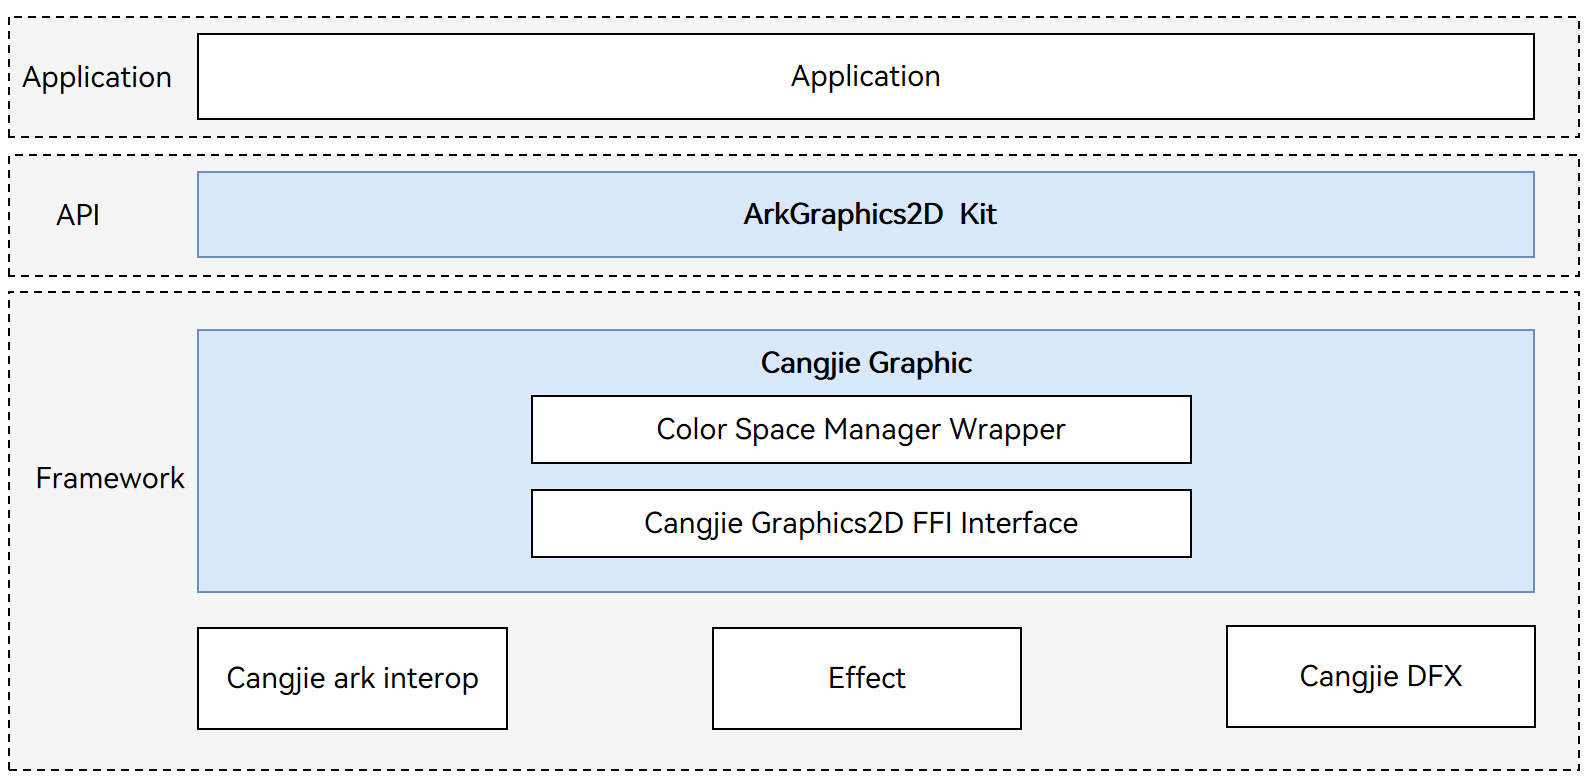
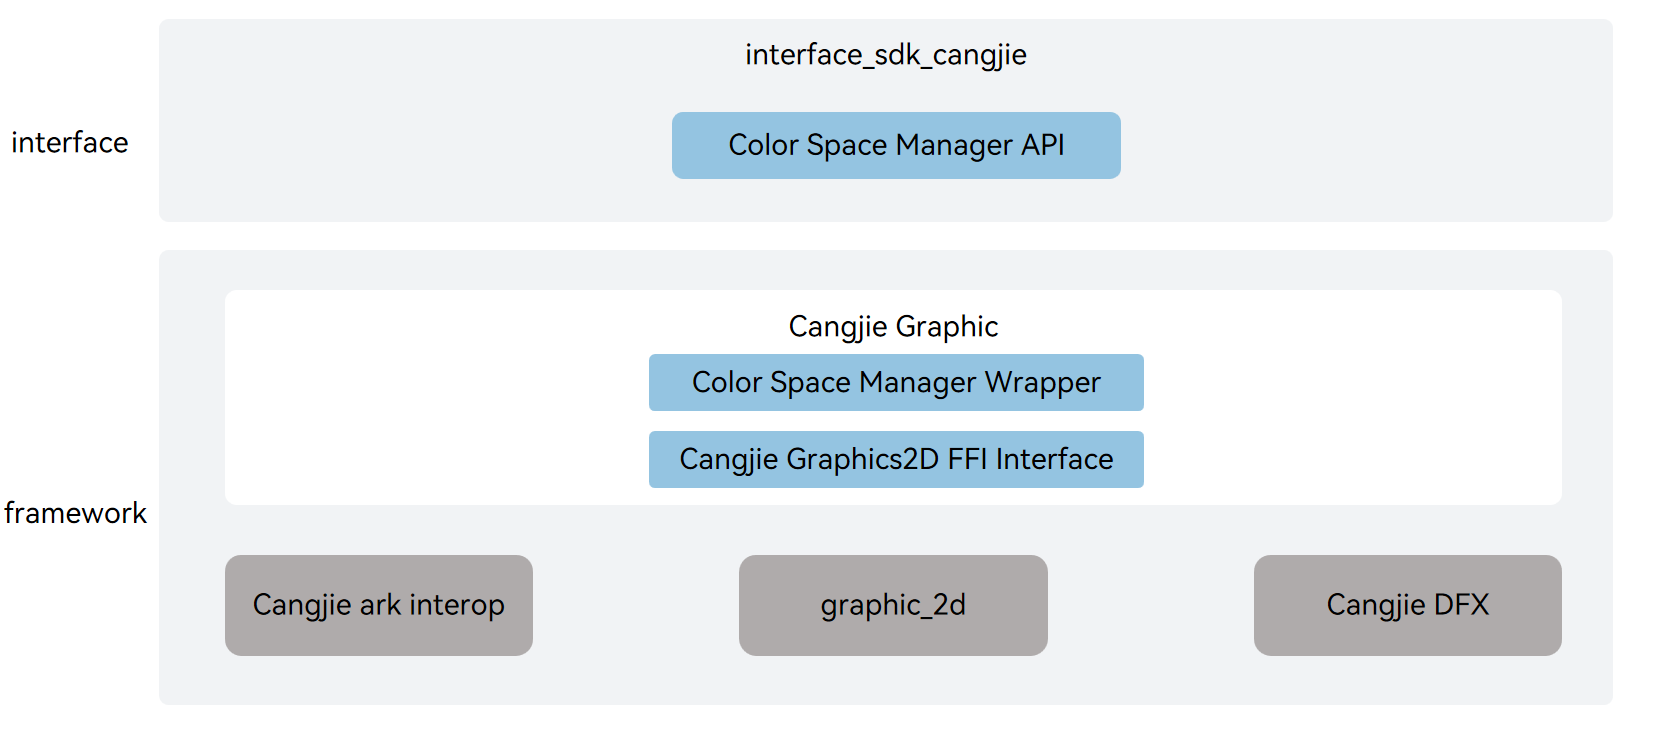
fix the internal review comments

diff --git a/README.md b/README.md
@@ -2,7 +2,7 @@
 
 ## Introduction
 
-The graphic_cangjie_wrapper is a Cangjie API encapsulated on OpenHarmony based on the capabilities of the Graphics Subsystem. The Graphics subsystem mainly consists of user interface (UI) components, layout, animator, font, input event, window management, and rendering and drawing modules. It is an application framework that can be built on the standard OS to develop OpenHarmony applications for standard and large-system devices.
+The graphic_cangjie_wrapper is a Cangjie API encapsulated on OpenHarmony based on Graphic_2D capabilities. Provides Cangjie color management capability API. The currently open file management Cangjie interface only supports standard devices.
 
 ## System Architecture
 
@@ -13,11 +13,20 @@ The following figure shows the architecture of the Graphics subsystem.
 
 As shown in the architecture diagram:
 
-- Color Manager: Provide gamut-dependent configuration capabilities.
+Interface layer description:
+
+- Color Management API: Cangjie public interfaces based on color management encapsulation exposed to users.
+
+Framework layer description:
+
+- Color Management Wrapper: Provide gamut-dependent configuration capabilities.
 - Cangjie graphics FFI interface definition: Responsible for defining the C language interoperable Cangjie interface, which is used to realize Cangjie graphics.
-- Effect: Mainly completes the ability to process image effects, rendering effects and other effects, including: multi-effect series and parallel processing, adding rendering effects, control interaction effects and other related capabilities during layout.
+
+Cangjie Graphics Dependencies:
+
+- graphic_2d: Provides C language interfaces that can be called by the graphics Cangjie interface to complete image effects, rendering effects and other effects processing capabilities, including: multi-effect series and parallel processing, adding rendering effects, control interaction effects and other related capabilities during layout.
 - Cangjie ark interop: Encapsulates public interfaces for C language interoperation, and provides Cangjie tag class implementation for annotating Cangjie APIs, as well as providing BusinessException exception class definitions thrown to users.
-- Cangjie DFX: Responsible for providing log interfaces for printing logs at critical paths.
+- Cangjie DFX: Responsible for providing log interfaces, providing Cangjie interfaces that can be called by the graphics Cangjie interface to print logs at critical paths.
 
 ## Directory Structure
 
@@ -40,6 +49,10 @@ The current Cangjie Graphics interface provides only Color Management.
 
 Color management, including creating standard color spaces and custom color spaces, as well as methods for obtaining color space related information. Supports developers in setting/getting color space related information in image processing and camera management.
 
+For Graphic-related APIs, please refer to [Color Management API](https://gitcode.com/openharmony-sig/arkcompiler_cangjie_ark_interop/blob/master/doc/API_Reference/source_en/apis/ArkGraphics2D/cj-apis-color_manager.md).
+
+## Constraints
+
 Compared with the API capabilities provided by ArkTS, the following functions are not supported at the moment:
 
 - The rendering capabilities of the UI framework.
@@ -47,8 +60,6 @@ Compared with the API capabilities provided by ArkTS, the following functions ar
 - Related capabilities of the animation engine.
 - Ability to process image effects, rendering effects.
 - The display and memory management capabilities.
-
-For Graphic-related APIs, please refer to [Color Management API](https://gitcode.com/openharmony-sig/arkcompiler_cangjie_ark_interop/blob/master/doc/API_Reference/source_en/apis/ArkGraphics2D/cj-apis-color_manager.md).
 
 ## Code Contribution
 

diff --git a/README_zh.md b/README_zh.md
@@ -1,8 +1,8 @@
-# 图形图像仓颉接口
+# 图形图像仓颉封装
 
 ## 简介
 
-图形图像仓颉接口是在OpenHarmony上基于图形子系统能力之上封装的仓颉API。图形子系统为OpenHarmony提供包括UI组件、布局、动画、字体、输入事件、窗口管理、渲染绘制等模块，构建基于标准OS的应用框架满足standard设备的OpenHarmony系统应用开发。
+图形图像仓颉接口是在OpenHarmony上面向开发者进行应用开发使用Graphic_2D能力封装的仓颉API实现。提供了仓颉的色彩管理能力API，当前开放的文件管理仓颉接口仅支持standard设备。
 
 ## 系统架构
 
@@ -13,11 +13,20 @@
 
 如架构图所示：
 
-- 色彩管理：提供色域相关配置能力。
+接口层说明：
+
+- 色彩管理API：基于色彩管理封装面向开发者开放的仓颉公开接口声明。
+
+框架层说明：
+
+- 色彩管理封装：提供色域相关配置能力。该封装层是基于graphic_2d对色彩管理功能进行的仓颉封装实现。
 - 仓颉图形图像FFI接口定义：负责定义被Cangjie语言调用的C语言互操作接口，用于实现仓颉图形图像能力。
-- Effect：主要完成图片效果、渲染特效等效果处理的能力，包括：多效果的串联、并联处理，在布局时加入渲染特效、控件交互特效等相关能力。
+
+仓颉图形图像依赖部件引用说明：
+
+- graphic_2d：提供可被图形图像仓颉接口调用的完成图片效果、渲染特效等效果处理的能力的C语言接口，包括：多效果的串联、并联处理，在布局时加入渲染特效、控件交互特效等相关能力。
 - 仓颉互操作：封装C语言互操作公共接口，并提供仓颉标签类实现用于对仓颉API进行标注，以及提供抛向用户的BusinessException异常类定义。
-- 仓颉DFX：负责提供日志接口，用于在关键路径处打印日志。
+- 仓颉DFX：负责提供日志接口，提供可被图形图像仓颉接口调用的在关键路径处打印日志能力的仓颉接口。
 
 ## 目录
 
@@ -40,6 +49,10 @@ foundation/graphic/graphic_cangjie_wrapper
 
 色彩管理，包括创建标准色彩空间和自定义色彩空间，以及获取色彩空间相关信息的方法。支持开发者在图片处理、相机管理中设置/获取颜色空间相关信息。
 
+相关使用指南请参见[色彩管理开发指导](https://gitcode.com/openharmony-sig/arkcompiler_cangjie_ark_interop/blob/master/doc/Dev_Guide/source_zh_cn/graphics/cj-color-manager-development-guide.md)。
+
+## 约束
+
 与ArkTS提供的API能力相比，暂不支持以下功能：
 
 - UI框架的绘制能力。
@@ -47,9 +60,6 @@ foundation/graphic/graphic_cangjie_wrapper
 - 动画引擎的相关能力。
 - 图片效果、渲染特效能力。
 - 显示与内存管理能力。
-
-
-图形相关API请参见[色彩管理API](https://gitcode.com/openharmony-sig/arkcompiler_cangjie_ark_interop/blob/master/doc/API_Reference/source_zh_cn/apis/ArkGraphics2D/cj-apis-color_manager.md)。
 
 ## 参与贡献
 
